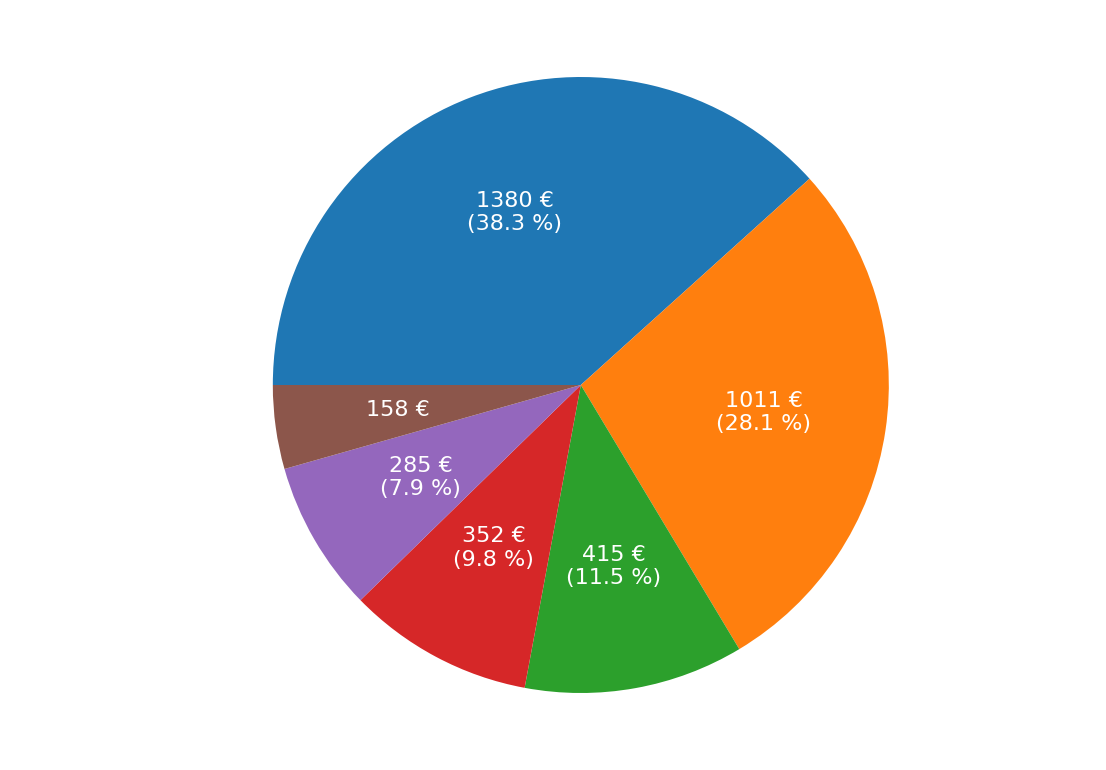
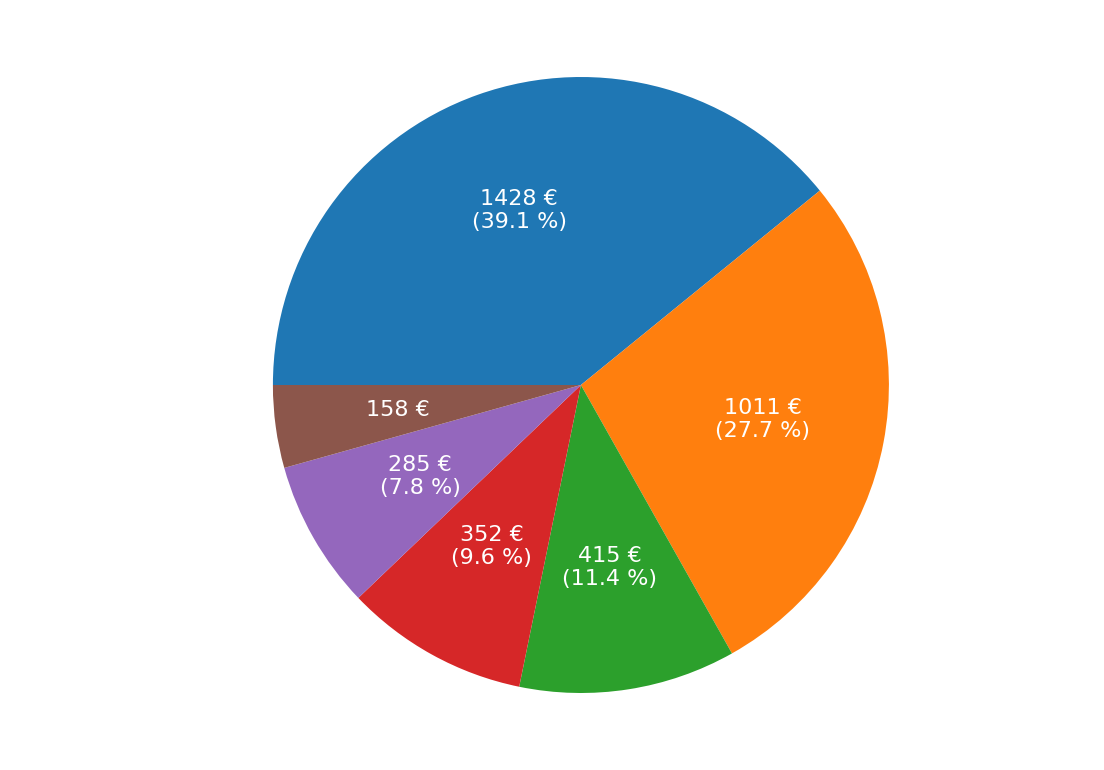
Update 05/11

diff --git a/page_compte.html b/page_compte.html
@@ -138,12 +138,6 @@
     </tr>
     <tr>
       <td>08/10/2022</td>
-      <td>Fromage</td>
-      <td><a href="subpage_0.html">Apéros Souper Photos</a></td>
-      <td style="color:#FA413B"">-36.00 €</td>
-    </tr>
-    <tr>
-      <td>08/10/2022</td>
       <td>Saucissons et Olives</td>
       <td><a href="subpage_0.html">Apéros Souper Photos</a></td>
       <td style="color:#FA413B"">-53.70 €</td>
@@ -153,6 +147,12 @@
       <td>Sapin JITS</td>
       <td><a href="subpage_6.html">Reste 2021-2022</a></td>
       <td style="color:#34FF27"">10.00 €</td>
+    </tr>
+    <tr>
+      <td>08/10/2022</td>
+      <td>Fromage</td>
+      <td><a href="subpage_0.html">Apéros Souper Photos</a></td>
+      <td style="color:#FA413B"">-36.00 €</td>
     </tr>
     <tr>
       <td>10/10/2022</td>
@@ -175,14 +175,14 @@
     <tr>
       <td>15/10/2022</td>
       <td>Courses Boissons</td>
-      <td><a href="subpage_3.html">Bar Pi 26/11</a></td>
-      <td style="color:#FA413B"">-136.50 €</td>
+      <td><a href="subpage_1.html">Bar Pi 15/10</a></td>
+      <td style="color:#FA413B"">-188.03 €</td>
     </tr>
     <tr>
       <td>15/10/2022</td>
       <td>Courses Boissons</td>
-      <td><a href="subpage_1.html">Bar Pi 15/10</a></td>
-      <td style="color:#FA413B"">-188.03 €</td>
+      <td><a href="subpage_3.html">Bar Pi 26/11</a></td>
+      <td style="color:#FA413B"">-136.50 €</td>
     </tr>
     <tr>
       <td>17/10/2022</td>
@@ -216,18 +216,6 @@
     </tr>
     <tr>
       <td>31/10/2022</td>
-      <td>Achat Callens Isabelle</td>
-      <td><a href="subpage_5.html">Lasagnes</a></td>
-      <td style="color:#34FF27"">48.00 €</td>
-    </tr>
-    <tr>
-      <td>31/10/2022</td>
-      <td>Achat Montenez Sarah</td>
-      <td><a href="subpage_5.html">Lasagnes</a></td>
-      <td style="color:#34FF27"">36.00 €</td>
-    </tr>
-    <tr>
-      <td>31/10/2022</td>
       <td>Dépôt Cash Banque</td>
       <td></td>
       <td style="color:#34FF27"">290.00 €</td>
@@ -240,15 +228,21 @@
     </tr>
     <tr>
       <td>31/10/2022</td>
+      <td>Achat Callens Isabelle</td>
+      <td><a href="subpage_5.html">Lasagnes</a></td>
+      <td style="color:#34FF27"">48.00 €</td>
+    </tr>
+    <tr>
+      <td>31/10/2022</td>
       <td>Achat Wielemans Rosalie</td>
       <td><a href="subpage_5.html">Lasagnes</a></td>
       <td style="color:#34FF27"">36.00 €</td>
     </tr>
     <tr>
-      <td>01/11/2022</td>
-      <td>Frais Octobre</td>
-      <td><a href="subpage_4.html">Frais bancaire</a></td>
-      <td style="color:#FA413B"">-4.50 €</td>
+      <td>31/10/2022</td>
+      <td>Achat Montenez Sarah</td>
+      <td><a href="subpage_5.html">Lasagnes</a></td>
+      <td style="color:#34FF27"">36.00 €</td>
     </tr>
     <tr>
       <td>01/11/2022</td>
@@ -264,21 +258,21 @@
     </tr>
     <tr>
       <td>01/11/2022</td>
+      <td>Achat Magoche Manon</td>
+      <td><a href="subpage_5.html">Lasagnes</a></td>
+      <td style="color:#34FF27"">12.00 €</td>
+    </tr>
+    <tr>
+      <td>01/11/2022</td>
       <td>Achat geoffrey de harlez</td>
       <td><a href="subpage_5.html">Lasagnes</a></td>
       <td style="color:#34FF27"">12.00 €</td>
     </tr>
     <tr>
       <td>01/11/2022</td>
-      <td>Achat Magoche Manon</td>
-      <td><a href="subpage_5.html">Lasagnes</a></td>
-      <td style="color:#34FF27"">12.00 €</td>
-    </tr>
-    <tr>
-      <td>02/11/2022</td>
-      <td>Achat Christelle Havrez</td>
-      <td><a href="subpage_5.html">Lasagnes</a></td>
-      <td style="color:#34FF27"">48.00 €</td>
+      <td>Frais Octobre</td>
+      <td><a href="subpage_4.html">Frais bancaire</a></td>
+      <td style="color:#FA413B"">-4.50 €</td>
     </tr>
     <tr>
       <td>02/11/2022</td>
@@ -291,6 +285,12 @@
       <td>Achat Smeesters Lecherf</td>
       <td><a href="subpage_5.html">Lasagnes</a></td>
       <td style="color:#34FF27"">24.00 €</td>
+    </tr>
+    <tr>
+      <td>02/11/2022</td>
+      <td>Achat Christelle Havrez</td>
+      <td><a href="subpage_5.html">Lasagnes</a></td>
+      <td style="color:#34FF27"">48.00 €</td>
     </tr>
     <tr>
       <td>03/11/2022</td>
@@ -311,10 +311,22 @@
       <td style="color:#34FF27"">30.00 €</td>
     </tr>
     <tr>
+      <td>04/11/2022</td>
+      <td>Achat Michiels Paul</td>
+      <td><a href="subpage_5.html">Lasagnes</a></td>
+      <td style="color:#34FF27"">12.00 €</td>
+    </tr>
+    <tr>
+      <td>05/11/2022</td>
+      <td>Achat Vandemeersche Nathalie</td>
+      <td><a href="subpage_5.html">Lasagnes</a></td>
+      <td style="color:#34FF27"">36.00 €</td>
+    </tr>
+    <tr>
       <td></td>
       <td>Total</td>
       <td></td>
-      <td style="color:#34FF27"">2556.08 €</td>
+      <td style="color:#34FF27"">2604.08 €</td>
     </tr>
   </tbody>
 </table>

diff --git a/page_total.html b/page_total.html
@@ -193,8 +193,14 @@
     <tr>
       <td>15/10/2022</td>
       <td>Courses Boissons</td>
+      <td><a href="subpage_1.html">Bar Pi 15/10</a></td>
+      <td style="color:#FA413B"">-188.03 €</td>
+    </tr>
+    <tr>
+      <td>15/10/2022</td>
+      <td>Vidanges</td>
       <td><a href="subpage_3.html">Bar Pi 26/11</a></td>
-      <td style="color:#FA413B"">-136.50 €</td>
+      <td style="color:#34FF27"">63.00 €</td>
     </tr>
     <tr>
       <td>15/10/2022</td>
@@ -211,14 +217,8 @@
     <tr>
       <td>15/10/2022</td>
       <td>Courses Boissons</td>
-      <td><a href="subpage_1.html">Bar Pi 15/10</a></td>
-      <td style="color:#FA413B"">-188.03 €</td>
-    </tr>
-    <tr>
-      <td>15/10/2022</td>
-      <td>Vidanges</td>
       <td><a href="subpage_3.html">Bar Pi 26/11</a></td>
-      <td style="color:#34FF27"">63.00 €</td>
+      <td style="color:#FA413B"">-136.50 €</td>
     </tr>
     <tr>
       <td>17/10/2022</td>
@@ -276,9 +276,15 @@
     </tr>
     <tr>
       <td>01/11/2022</td>
-      <td>Achat geoffrey de harlez</td>
+      <td>Achat Magoche Manon</td>
       <td><a href="subpage_5.html">Lasagnes</a></td>
       <td style="color:#34FF27"">12.00 €</td>
+    </tr>
+    <tr>
+      <td>01/11/2022</td>
+      <td>Achat Barniche Martine</td>
+      <td><a href="subpage_5.html">Lasagnes</a></td>
+      <td style="color:#34FF27"">60.00 €</td>
     </tr>
     <tr>
       <td>01/11/2022</td>
@@ -294,15 +300,9 @@
     </tr>
     <tr>
       <td>01/11/2022</td>
-      <td>Achat Magoche Manon</td>
+      <td>Achat geoffrey de harlez</td>
       <td><a href="subpage_5.html">Lasagnes</a></td>
       <td style="color:#34FF27"">12.00 €</td>
-    </tr>
-    <tr>
-      <td>01/11/2022</td>
-      <td>Achat Barniche Martine</td>
-      <td><a href="subpage_5.html">Lasagnes</a></td>
-      <td style="color:#34FF27"">60.00 €</td>
     </tr>
     <tr>
       <td>02/11/2022</td>
@@ -312,15 +312,15 @@
     </tr>
     <tr>
       <td>02/11/2022</td>
-      <td>Achat Van Ruychevelt Paul</td>
-      <td><a href="subpage_5.html">Lasagnes</a></td>
-      <td style="color:#34FF27"">12.00 €</td>
-    </tr>
-    <tr>
-      <td>02/11/2022</td>
       <td>Achat Smeesters Lecherf</td>
       <td><a href="subpage_5.html">Lasagnes</a></td>
       <td style="color:#34FF27"">24.00 €</td>
+    </tr>
+    <tr>
+      <td>02/11/2022</td>
+      <td>Achat Van Ruychevelt Paul</td>
+      <td><a href="subpage_5.html">Lasagnes</a></td>
+      <td style="color:#34FF27"">12.00 €</td>
     </tr>
     <tr>
       <td>03/11/2022</td>
@@ -341,10 +341,22 @@
       <td style="color:#34FF27"">30.00 €</td>
     </tr>
     <tr>
+      <td>04/11/2022</td>
+      <td>Achat Michiels Paul</td>
+      <td><a href="subpage_5.html">Lasagnes</a></td>
+      <td style="color:#34FF27"">12.00 €</td>
+    </tr>
+    <tr>
+      <td>05/11/2022</td>
+      <td>Achat Vandemeersche Nathalie</td>
+      <td><a href="subpage_5.html">Lasagnes</a></td>
+      <td style="color:#34FF27"">36.00 €</td>
+    </tr>
+    <tr>
       <td></td>
       <td>Total</td>
       <td></td>
-      <td style="color:#34FF27"">3148.81 €</td>
+      <td style="color:#34FF27"">3196.81 €</td>
     </tr>
   </tbody>
 </table>

diff --git a/index.html b/index.html
@@ -9,7 +9,7 @@
 <body>
     <h1>Comptes Pis</h1>
 
-    <button onclick="location.href='page_compte.html'" type="button" class="BasicButton">Compte<br>2556.08 €</button>
+    <button onclick="location.href='page_compte.html'" type="button" class="BasicButton">Compte<br>2604.08 €</button>
     <button onclick="location.href='page_cash.html'" type="button" class="BasicButton">Cash<br>13.73 €</button>
     <button onclick="location.href='page_materiel.html'" type="button" class="BasicButton">Matériel<br>579.00 €</button>
     <br><br><br><br><br>
@@ -18,7 +18,7 @@
         <button onclick="location.href='page_graphs.html'" type="button" class="CategoryButton">Graphes</button>
     </p>
     <br><br><br>
-    <button onclick="location.href='page_total.html'" type="button" class="TotalButton">Total 3148.81 €</button>
+    <button onclick="location.href='page_total.html'" type="button" class="TotalButton">Total 3196.81 €</button>
     
     
 </body>

diff --git a/subpage_5.html b/subpage_5.html
@@ -112,9 +112,19 @@
       <td style="color:#34FF27"">30.00 €</td>
     </tr>
     <tr>
+      <td>04/11/2022</td>
+      <td>Achat Michiels Paul</td>
+      <td style="color:#34FF27"">12.00 €</td>
+    </tr>
+    <tr>
+      <td>05/11/2022</td>
+      <td>Achat Vandemeersche Nathalie</td>
+      <td style="color:#34FF27"">36.00 €</td>
+    </tr>
+    <tr>
       <td></td>
       <td>Recettes Totales</td>
-      <td style="color:#34FF27"">1380.00 €</td>
+      <td style="color:#34FF27"">1428.00 €</td>
     </tr>
     <tr>
       <td></td>
@@ -124,7 +134,7 @@
     <tr>
       <td></td>
       <td>Total</td>
-      <td style="color:#34FF27"">1380.00 €</td>
+      <td style="color:#34FF27"">1428.00 €</td>
     </tr>
   </tbody>
 </table>

diff --git a/page_by_activity.html b/page_by_activity.html
@@ -54,7 +54,7 @@
     <tr>
       <td>14/10/2022</td>
       <td><a href="subpage_5.html">Lasagnes</a></td>
-      <td style="color:#34FF27"">1380.00 €</td>
+      <td style="color:#34FF27"">1428.00 €</td>
     </tr>
     <tr>
       <td>15/10/2022</td>
@@ -69,7 +69,7 @@
     <tr>
       <td></td>
       <td>Total</td>
-      <td style="color:#34FF27"">3148.81 €</td>
+      <td style="color:#34FF27"">3196.81 €</td>
     </tr>
   </tbody>
 </table>
